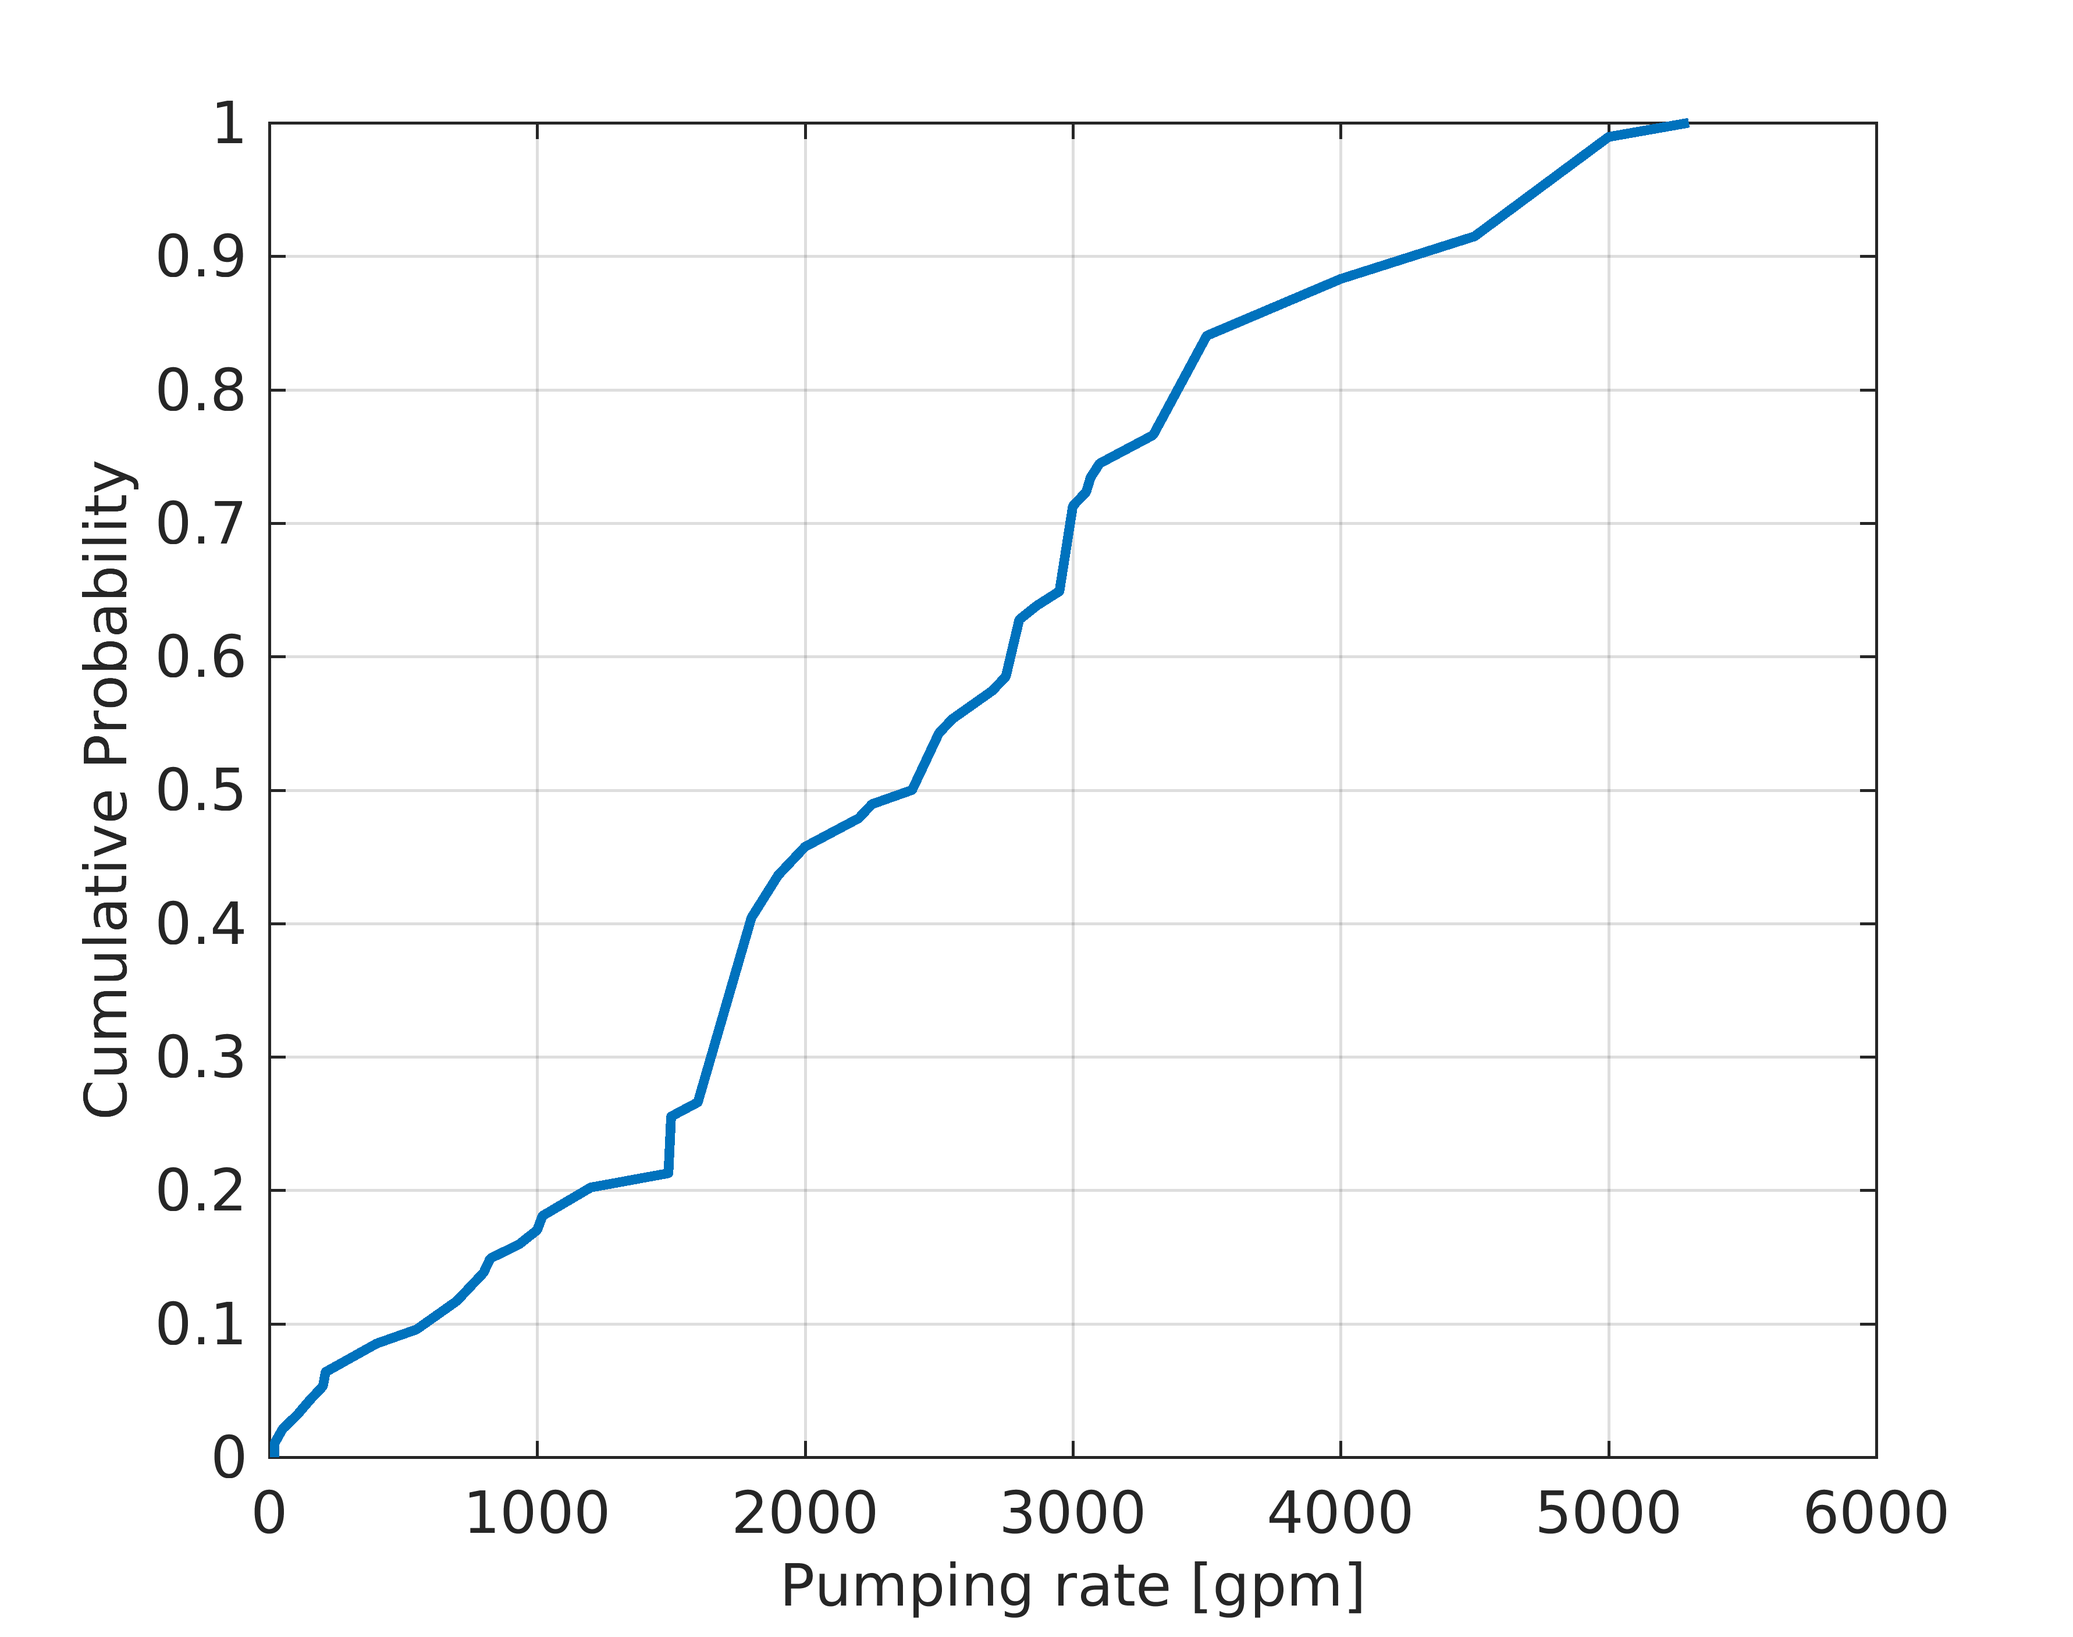
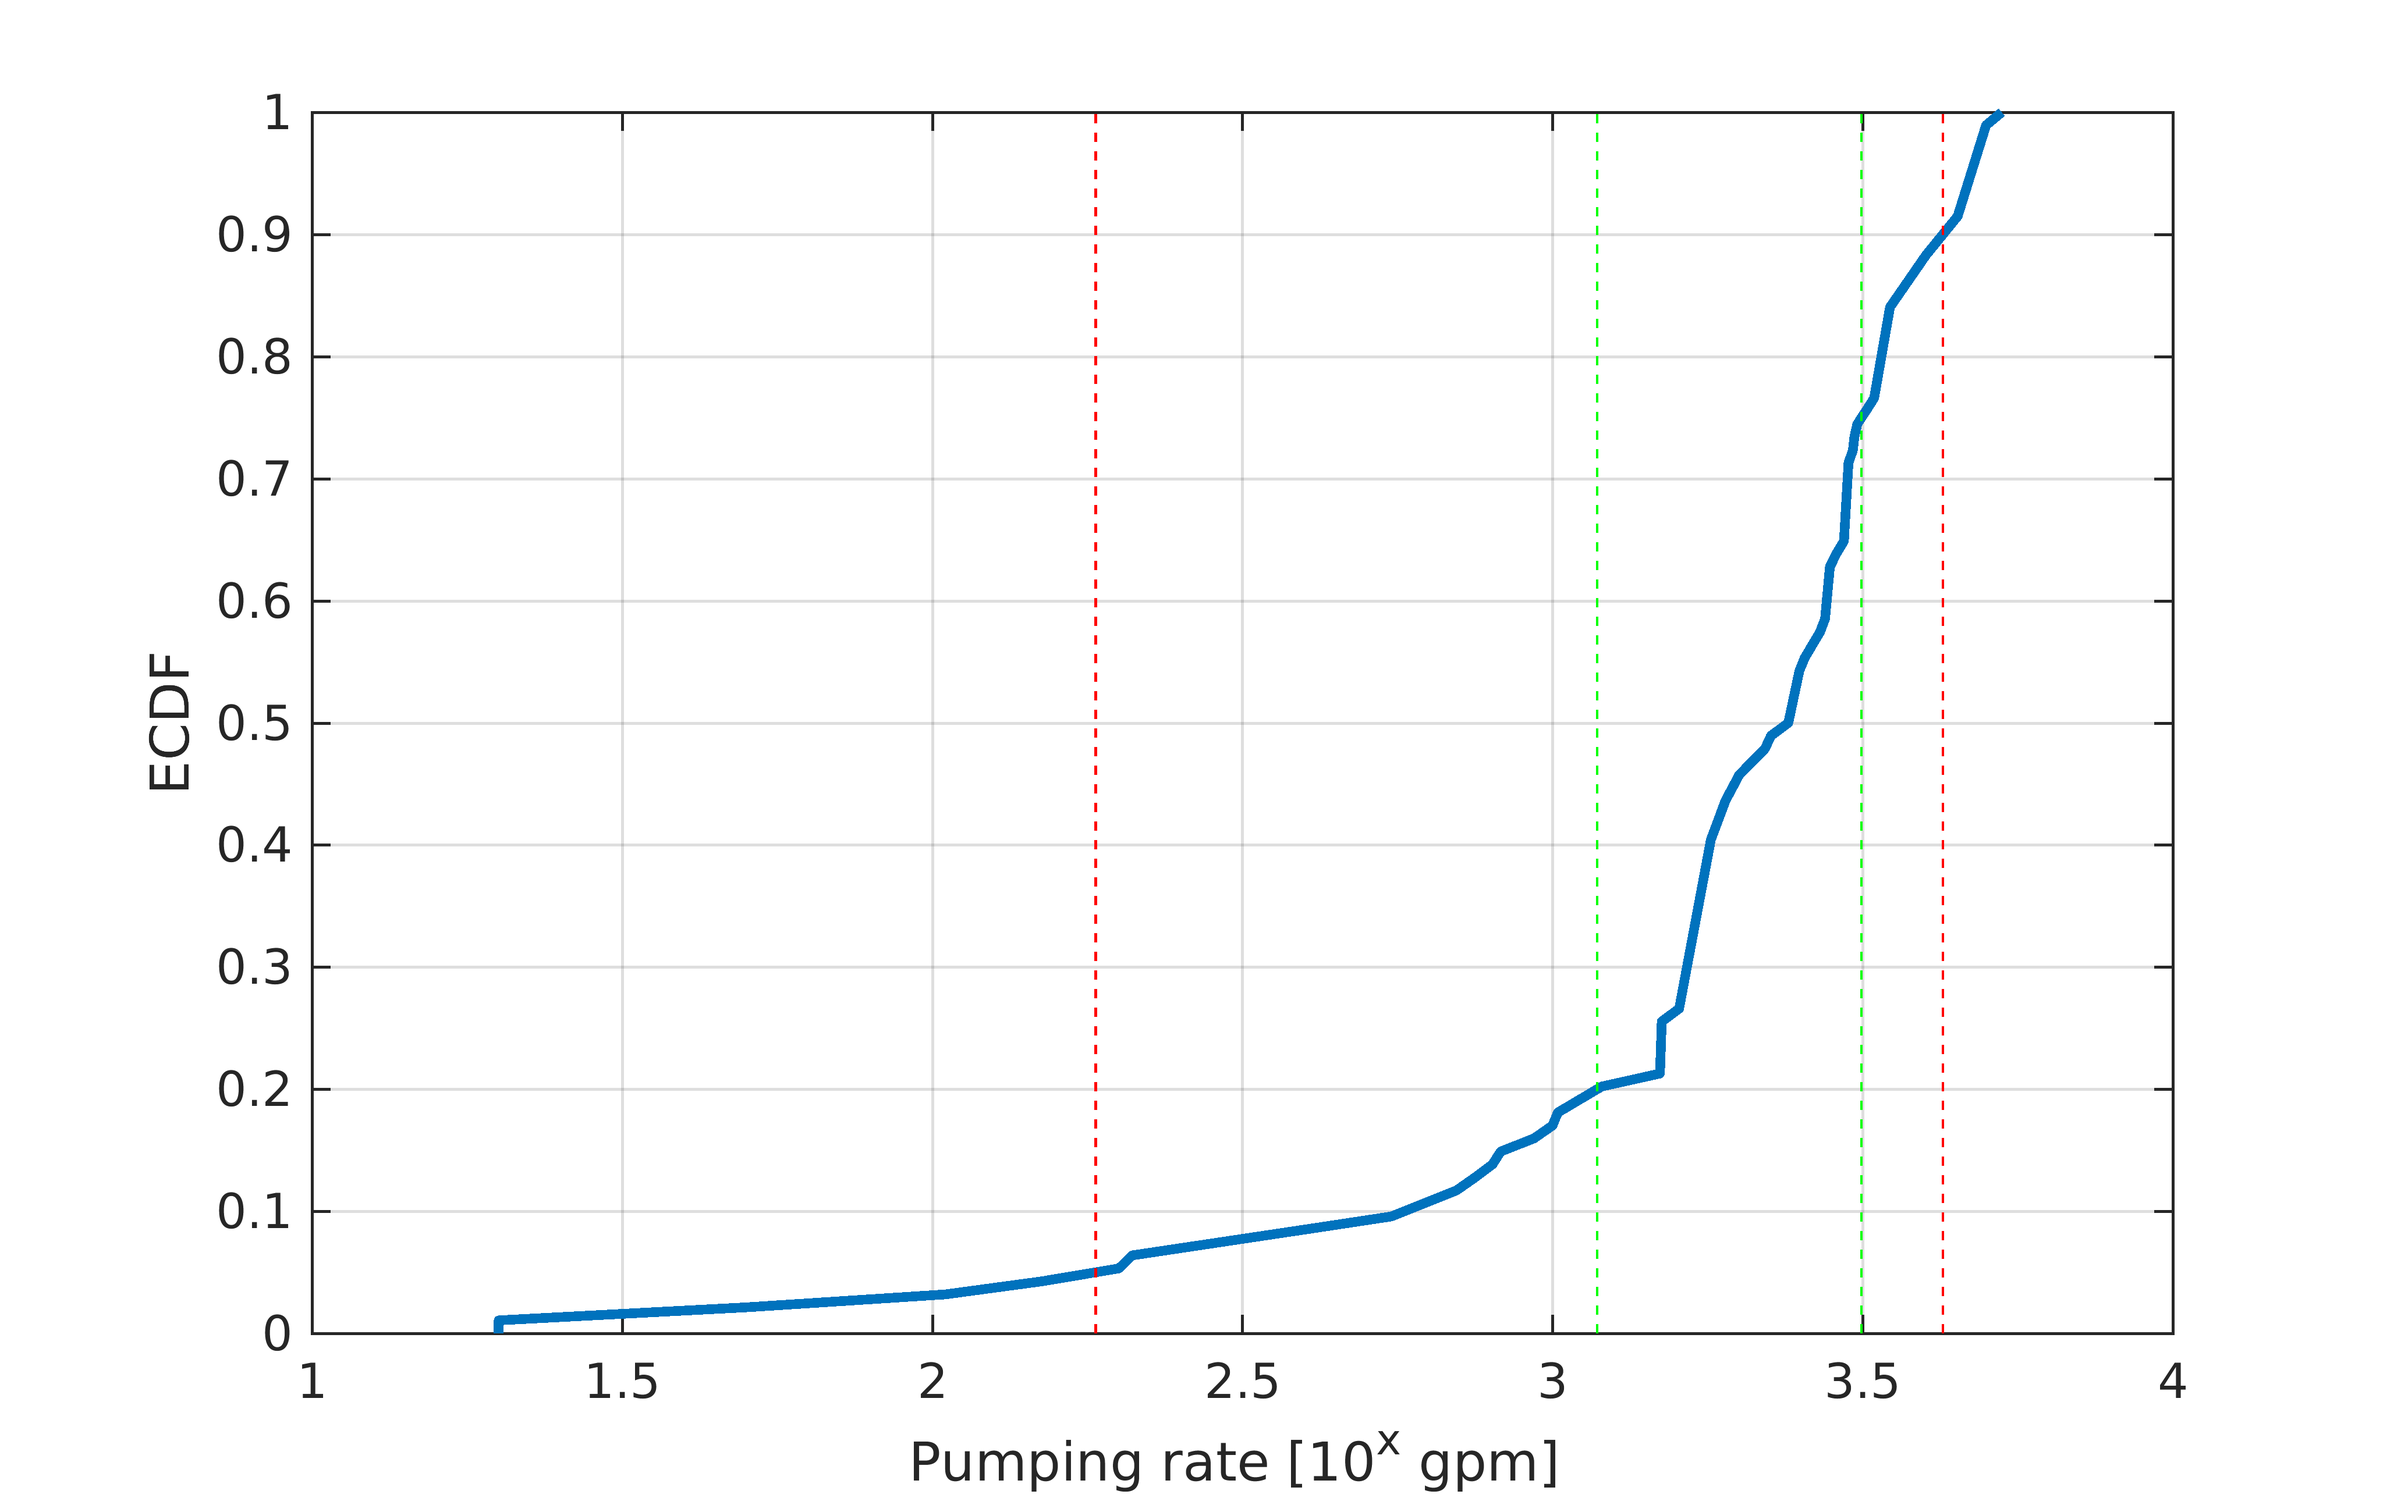
Update the well generation algorithm to avoid the generation of extreme values

diff --git a/AssignQDS.m b/AssignQDS.m
@@ -1,0 +1,147 @@
+function [ Q_out, D_out, SL_out ] = AssignQDS(S, Q_in, D_in, SL_in )
+
+ww = 0.15;
+
+    if ~isnan(Q_in)
+        if Q_in < 10^interp1q(S.fQ, S.xQ, S.lowQ)
+            r = S.lowQ + ww*rand;
+            Q_in = 10^interp1q(S.fQ, S.xQ, r);
+        end
+        if Q_in > 10^interp1q(S.fQ, S.xQ, S.uppQ)
+            r = S.uppQ - ww + ww*rand;
+            Q_in = 10^interp1q(S.fQ, S.xQ, r);
+        end
+    end
+    if ~isnan(D_in)
+        if D_in < 10^interp1q(S.fD, S.xD, S.lowD)
+            r = S.lowD + ww*rand;
+            D_in = 10^interp1q(S.fD, S.xD, r);
+        end
+        if D_in > 10^interp1q(S.fD, S.xD, S.uppD)
+            r = S.uppD - ww + ww*rand;
+            D_in = 10^interp1q(S.fD, S.xD, r);
+        end
+    end
+    if ~isnan(SL_in)
+        if SL_in < 10^interp1q(S.fS, S.xS, S.lowS)
+            r = S.lowS + ww*rand;
+            SL_in = 10^interp1q(S.fS, S.xS, r);
+        end
+        if SL_in > 10^interp1q(S.fS, S.xS, S.uppS)
+            r = S.uppS - ww + ww*rand;
+            SL_in = 10^interp1q(S.fS, S.xS, r);
+        end
+    end
+
+S.w = 0.2;
+
+    if isnan(Q_in)
+        if isnan(D_in)
+            if isnan(SL_in) % all unknown
+                Q_out = DSnan(S);
+                D_out = Q_Snan(S, Q_out);
+                SL_out = QDknown(S, Q_out, D_out);
+            else % SL known
+                Q_out = SL_Dnan(S,SL_in);
+                D_out = QSLknown(S, Q_out, SL_in);
+                SL_out = SL_in;
+            end
+        else
+            if isnan(SL_in) % D known only
+                Q_out = D_SLnan(S, D_in);
+                D_out = D_in;
+                SL_out = QDknown(S, Q_out, D_out);
+            else % D and SL known
+                Q_out = DSLknown(S,D_in, SL_in);
+                D_out = D_in;
+                SL_out = SL_in;
+            end
+        end
+    else
+        if isnan(D_in)
+            if isnan(SL_in) % Q known only
+                Q_out = Q_in;
+                D_out = Q_Snan(S, Q_out);
+            else % Q and SL known
+                Q_out = Q_in;
+                D_out = QSLknown(S, Q_out, SL_in);
+                SL_out = SL_in;
+            end
+        else
+            if isnan(SL_in) % Q and D known
+                Q_out = Q_in;
+                D_out = D_in;
+                SL_out = QDknown(S, Q_out, D_out);
+                
+            else
+                Q_out = Q_in;
+                D_out = D_in;
+                SL_out = SL_in;
+            end
+        end
+    end
+end
+
+function rr = randQ(S)
+    rr = Stats.lowQ + (S.uppQ - S.lowQ)*rand;
+end
+
+function rr = randD(S)
+    rr = S.lowD + (S.uppD - S.lowD)*rand;
+end
+
+function rr = randS(S)
+    rr = S.lowS + (S.uppS - S.lowS)*rand;
+end
+
+function Q = DSnan(S)
+    r = randQ(S);
+    Q = 10^interp1q(S.fQ, S.xQ,r);
+end
+
+function D = Q_Snan(S, Q)
+    % find the ecdf of the given Q
+    rQ = interp1q(S.xQ, S.fQ, log10(Q));
+    % generate a random number around that
+    w = S.w;
+    rD = rQ-w + 2*w*rand;
+    D = 10^interp1q(S.fD, S.xD, rD);
+end
+
+function SL = QDknown(S, Q, D)
+    rQ = interp1q(S.xQ, S.fQ, log10(Q));
+    rD = interp1q(S.xD, S.fD, log10(D));
+    w = S.w;
+    rSL = (rQ + rD)/2 - w + 2*w*rand;
+    SL = 10^interp1q(S.fS, S.xS, rSL);
+end
+
+function Q = SL_Dnan(S,SL)
+    rSL = interp1q(S.xS, S.fS, log10(SL));
+    w = S.w;
+    rQ = rSL - w + 2*w*rand;
+    Q = 10^interp1q(S.fQ, S.xQ, rQ);
+end
+
+function D = QSLknown(S, Q, SL)
+    rQ = interp1q(S.xQ, S.fQ, log10(Q));
+    rSL = interp1q(S.xS, S.fS, log10(SL));
+    w = S.w;
+    rD = (rQ + rSL)/2 - w + 2*w*rand;
+    D = 10^interp1q(S.fD, S.xD, rD);
+end
+
+function Q = D_SLnan(S, D)
+    rD = interp1q(S.xD, S.fD, log10(D));
+    w = S.w;
+    rQ = rD-w + 2*w*rand;
+    Q = 10^interp1q(S.fQ, S.xQ, rQ);
+end
+
+function Q = DSLknown(S,D, SL)
+    rD = interp1q(S.xD, S.fD, log10(D));
+    rSL = interp1q(S.xS, S.fS, log10(SL));
+    w = S.w;
+    rQ = (rD + rSL)/2 - w + 2*w*rand;
+    Q = 10^interp1q(S.fQ, S.xQ, rQ);
+end

diff --git a/GenerateWells_V2.m b/GenerateWells_V2.m
@@ -188,7 +188,7 @@ shapewrite(Farms_poly, 'gis_data/FARMS_polyPump.shp');
 Farm_basin = shaperead('/home/giorgk/Documents/UCDAVIS/CVHM_NPSAT/gis_data/FARMS_poly.shp');
 Farms_poly = shaperead('gis_data/FARMS_polyPump.shp');
 CVHMwells = shaperead('/home/giorgk/Documents/UCDAVIS/CVHM_DATA/WellData/CVwells_30y_proj.shp');
-%
+%}
 %%
 clear WELLS4CVHM
 for ii = 1:length(Farms_poly)
@@ -232,47 +232,36 @@ for ii = 1:length(Farms_poly)
     %%% PUMPING
     idQ = ~isnan([tempWag.Q]') & [tempWag.Q]' > 0; % isolate the records that have pumping
     display(sum(idQ))
-    [f, x]=ecdf([tempWag(idQ,1).Q]'); % create an ECDF based on the data
-    % generate random pumping based on the ECDF 
-    for jj = 1:length(tempWag_mod)
-        if isnan(tempWag_mod(jj,1).Q)
-             tempWag_mod(jj,1).Q = round(interp1q(f,x,rand));
-        end
-    end
+    logQ = log10([tempWag(idQ,1).Q]');
+    [fQ, xQ]=ecdf(logQ); % create an ECDF based on the data
     
-    %%% DEPTH
-    % isolate the records that have pumping and depth
-    idQD = ~isnan([tempWag.Q]') & [tempWag.Q]' > 0 & ...
-           ~isnan([tempWag.depth]') & [tempWag.depth]' > 0;
-    display(sum(idQD))
-    QD_fit = fit(log10([tempWag(idQD,1).Q]'),log10([tempWag(idQD,1).depth]'), 'poly1');
-    % generate random depth if depth is missing
-    for jj = 1:length(tempWag_mod)
-        if isnan(tempWag_mod(jj,1).depth)
-            Dm = QD_fit(log10(tempWag_mod(jj,1).Q));
-            Ds = predint(QD_fit, log10(tempWag_mod(jj,1).Q),0.68,'observation','off');
-            tempWag_mod(jj,1).depth = round(10^normrnd(Dm, Dm-Ds(1)));
-        end
-    end
+    idD = ~isnan([tempWag.depth]') & [tempWag.depth]' > 0;
+    display(sum(idD))
+    logD = log10([tempWag(idD,1).depth]');
+    [fD, xD]=ecdf(logD);
     
-    %%% SCREEN LENGTH
-    % isolate the records that have pumping and depth and screen length
-    idQDS = ~isnan([tempWag.Q]') & [tempWag.Q]' > 0 & ...
-            ~isnan([tempWag.depth]') & [tempWag.depth]' > 0 & ...
-            ~isnan([tempWag.top]') & ~isnan([tempWag.bot]') & ...
+    idS = ~isnan([tempWag.top]') & ~isnan([tempWag.bot]') & ...
             [tempWag.bot]' - [tempWag.top]' > 0;
-    display(sum(idQDS))    
-    QDS_fit=fit([log10([tempWag(idQDS,1).Q]'), log10([tempWag(idQDS,1).depth]')], ...
-        log10([tempWag(idQDS,1).bot]' - [tempWag(idQDS,1).top]'), 'poly11');
+    display(sum(idS))
+    logS = log10([tempWag(idS,1).bot]' - [tempWag(idS,1).top]');
+    [fS, xS]=ecdf(logS);
+    
+    Stats.fQ = fQ; Stats.lowQ = 0.05;
+    Stats.xQ = xQ; Stats.uppQ = 0.9;
+    Stats.fD = fD; Stats.lowD = 0;
+    Stats.xD = xD; Stats.uppD = 1;
+    Stats.fS = fS; Stats.lowS = 0;
+    Stats.xS = xS; Stats.uppS = 1;
+    
     for jj = 1:length(tempWag_mod)
-        if isnan([tempWag_mod(jj,1).top]) || isnan([tempWag_mod(jj,1).bot])
-            Sm = QDS_fit(log10([tempWag_mod(jj,1).Q]'), log10([tempWag_mod(jj,1).depth]'));
-            Ss = predint(QDS_fit, [log10([tempWag_mod(jj,1).Q]'), log10([tempWag_mod(jj,1).depth]')],0.68,'observation','off');
-            tempWag_mod(jj,1).SL = round(10^normrnd(Sm, Sm-Ss(1)));
-        else
-            tempWag_mod(jj,1).SL = round(tempWag_mod(jj,1).bot - tempWag_mod(jj,1).top);
-        end
+        [ tempWag_mod(jj,1).Q, ...
+          tempWag_mod(jj,1).depth, ...
+          tempWag_mod(jj,1).SL ] = AssignQDS(S, ...
+                                             tempWag_mod(jj,1).Q, ...
+                                             tempWag_mod(jj,1).depth, ...
+                                             tempWag_mod(jj,1).SL );
     end
+
     
     % --------------- Urban wells-------------
     %%% PUMPING

diff --git a/Well_generation_alg_V2.md b/Well_generation_alg_V2.md
@@ -23,7 +23,8 @@ For each farm:
 - Pumping rates.
 For the pumping rates compute the empirical cumulative distribution function based on the data that have known rates. Using the ECDF generate random pumping for the records that dont have pumping.
 Generate a random probability between [0,1]. Assign the corresponding pumping to that probability. 
- <img src="farm21_Q_ecdf.png" alt="ECDF of pumping" width="500"/>
+To avoid very large and mor importantly very small pumping rate the random values are generated within the [0.05, 0.9] space of the ECDF. For the existing pumping rates that lay beyond this space the rates are resampled based on the spaces between the green abd red lines.   
+ <img src="farm21_Q_ecdf.png" alt="ECDF of pumping" width="600"/>
  - Depth
  For the depth we identify the records that have both pumping and depth assigned. Note that we do not use the random pumping in that calculation. We fit a linear model and calculate the prediction interval that corresponds to standard deviation. Then for the missing depths we calculate a mean and standard deviation depth as a function of pumping. For this calculation we use also the gerenated pumpings. A normally distributed random depth is generated based on the mean and standard that were calculated as function of assigned pumping. 
  <img src="farm21_QD_fit.png" alt="Q vs depth" width="500"/>
